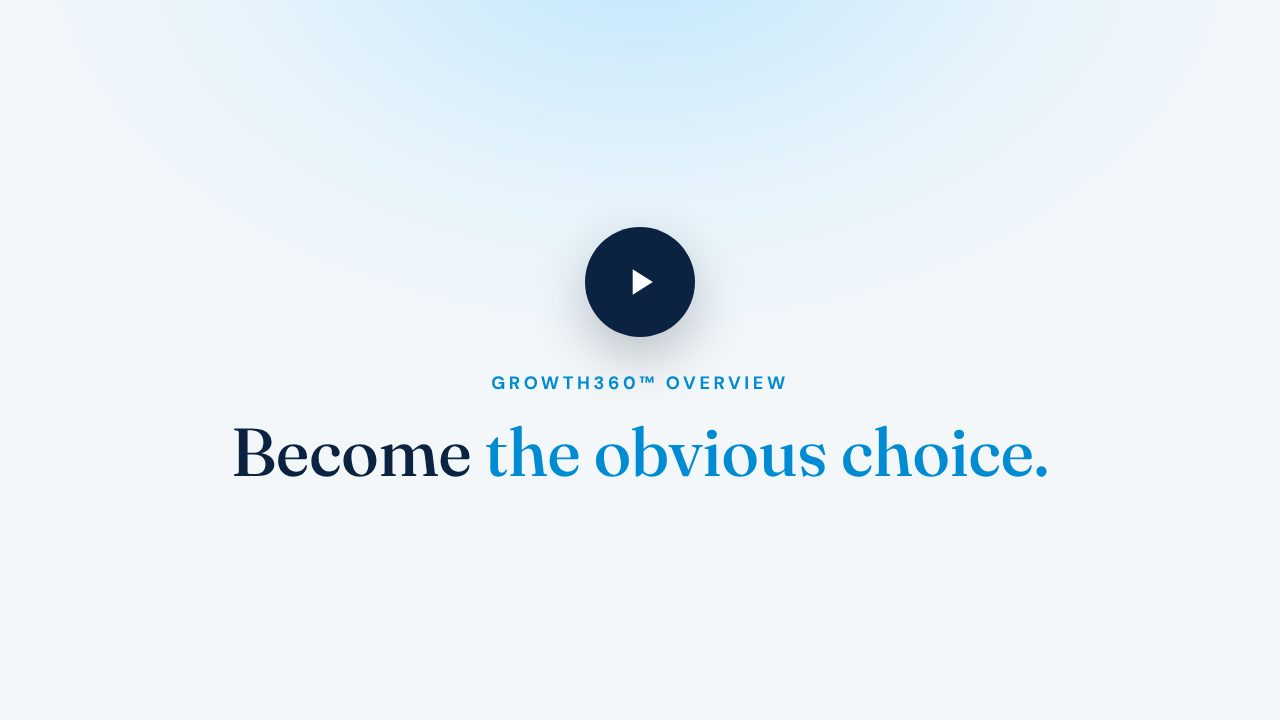
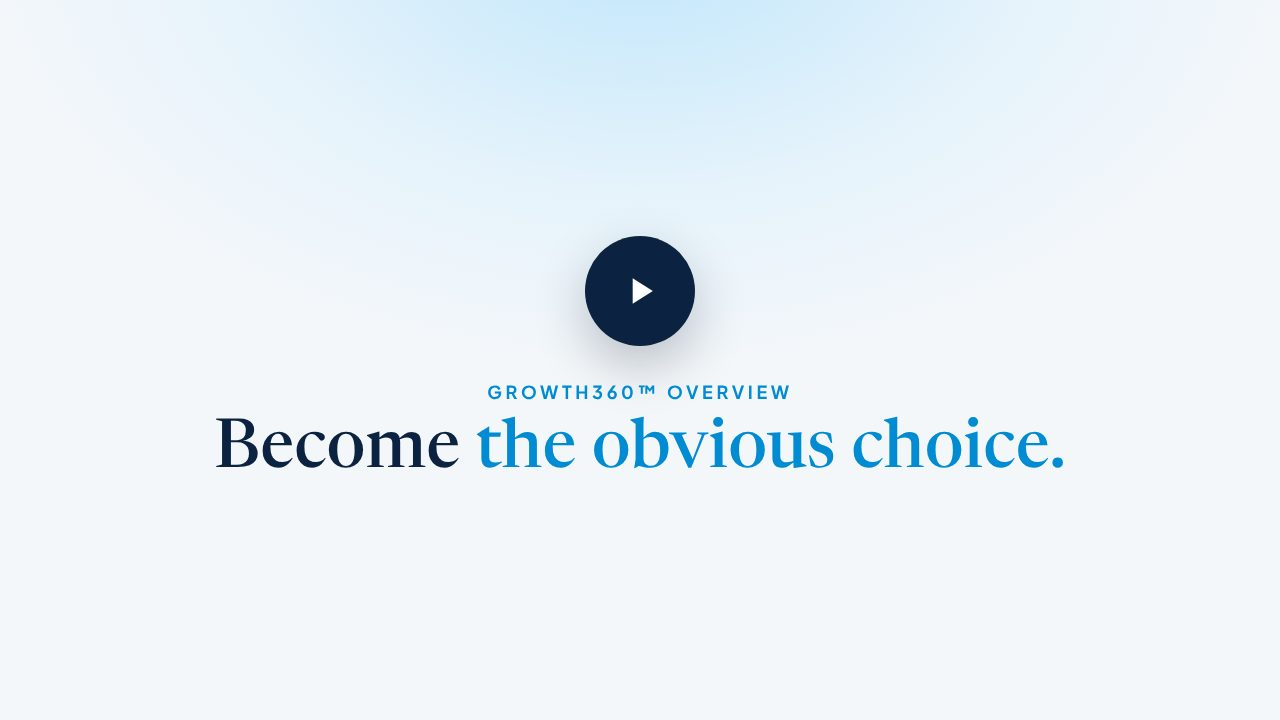
Change fonts to Newsreader headlines and Plus Jakarta Sans body
Claude-Session: https://claude.ai/code/session_018pQ9Jxz9pM4me8uzc4osee

diff --git a/wp-content/themes/progressive-marketing/style.css b/wp-content/themes/progressive-marketing/style.css
@@ -57,8 +57,8 @@ Text Domain: pmc
 	--shadow: 0 1px 2px rgba(11, 35, 65, .04), 0 14px 34px rgba(11, 35, 65, .08);
 	--shadow-lg: 0 2px 4px rgba(11, 35, 65, .04), 0 30px 70px rgba(11, 35, 65, .14);
 
-	--serif: "Fraunces", "Iowan Old Style", Georgia, serif;
-	--sans: "DM Sans", system-ui, -apple-system, "Segoe UI", Roboto, sans-serif;
+	--serif: "Newsreader", "Iowan Old Style", Georgia, serif;
+	--sans: "Plus Jakarta Sans", system-ui, -apple-system, "Segoe UI", Roboto, sans-serif;
 	--container: 1180px;
 	--gutter: clamp(16px, 4vw, 40px);
 	--ease: cubic-bezier(.2, .7, .2, 1);
@@ -74,7 +74,7 @@ img, svg, video { max-width: 100%; height: auto; display: block; }
 a { color: var(--blue); text-decoration-thickness: 1px; text-underline-offset: 3px; }
 a:hover { color: var(--blue-dark); }
 h1, h2, h3, h4 { color: var(--ink); line-height: 1.1; margin: 0 0 .5em; }
-h1, h2 { font-family: var(--serif); font-weight: 500; letter-spacing: -.012em; font-variation-settings: "opsz" 120; }
+h1, h2 { font-family: var(--serif); font-weight: 500; letter-spacing: -.015em; }
 h1 { font-size: clamp(2.6rem, 6vw, 5rem); line-height: 1.02; }
 h2 { font-size: clamp(2rem, 4vw, 3.2rem); }
 h3 { font-family: var(--sans); font-size: 1.2rem; font-weight: 700; letter-spacing: -.01em; line-height: 1.3; }

diff --git a/wp-content/themes/progressive-marketing/functions.php b/wp-content/themes/progressive-marketing/functions.php
@@ -43,7 +43,7 @@ add_action( 'after_setup_theme', 'pmc_setup' );
  * Styles and scripts.
  */
 function pmc_assets() {
-	wp_enqueue_style( 'pmc-fonts', 'https://fonts.googleapis.com/css2?family=DM+Sans:opsz,wght@9..40,400..700&family=Fraunces:opsz,wght@9..144,400..600&display=swap', array(), null );
+	wp_enqueue_style( 'pmc-fonts', 'https://fonts.googleapis.com/css2?family=Newsreader:opsz,wght@6..72,400..600&family=Plus+Jakarta+Sans:wght@400..700&display=swap', array(), null );
 	wp_enqueue_style( 'pmc-style', get_stylesheet_uri(), array( 'pmc-fonts' ), PMC_VERSION );
 	wp_enqueue_script( 'pmc-main', PMC_URI . '/assets/js/main.js', array(), PMC_VERSION, array( 'strategy' => 'defer', 'in_footer' => true ) );
 }
